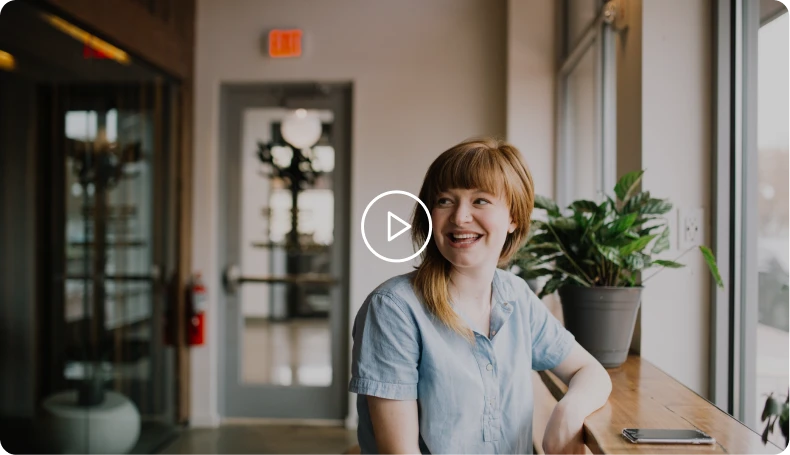
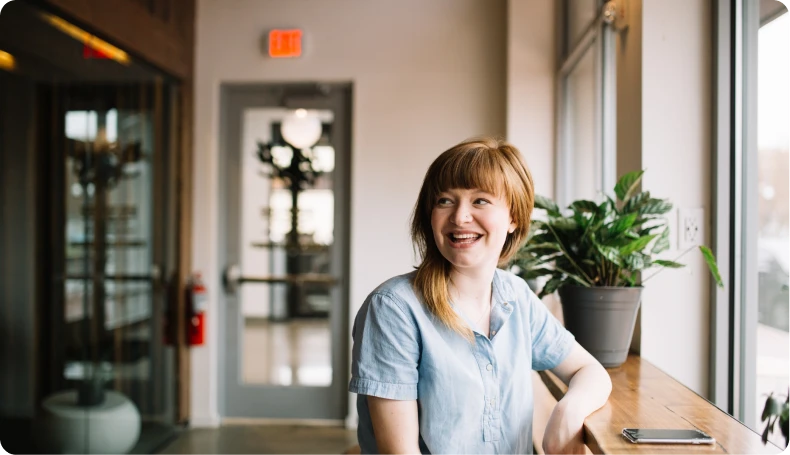
Second section is ready with mobile adaptation and with other browsers ready.

diff --git a/Assets/styles/second.css b/Assets/styles/second.css
@@ -1,0 +1,142 @@
+.second {
+  display: -webkit-box;
+  display: -ms-flexbox;
+  display: flex;
+  background-color: var(--bg-green);
+  padding: 230px 0;
+}
+
+.second__wrapper {
+  display: -webkit-box;
+  display: -ms-flexbox;
+  display: flex;
+  -webkit-box-pack: justify;
+  -ms-flex-pack: justify;
+  justify-content: space-between;
+  -webkit-box-align: center;
+  -ms-flex-align: center;
+  align-items: center;
+}
+
+.second__left {
+  margin-right: 46px;
+}
+
+.second__left-title {
+  font-weight: 700;
+  font-size: 50px;
+  line-height: 157%;
+  color: var(--bg-white);
+  max-width: 580px;
+  width: 100%;
+}
+.second__left-desc {
+  font-weight: 600;
+  font-size: 25px;
+  line-height: 157%;
+  color: var(--bg-white);
+  max-width: 580px;
+  width: 100%;
+  margin: 19px 0 80px 0;
+}
+
+.second__right {
+  display: -webkit-box;
+  display: -ms-flexbox;
+  display: flex;
+  -webkit-box-orient: vertical;
+  -webkit-box-direction: normal;
+  -ms-flex-direction: column;
+  flex-direction: column;
+  position: relative;
+}
+
+.second_img {
+  max-width: 790px;
+  width: 100%;
+  -o-object-fit: cover;
+  object-fit: cover;
+}
+
+.play {
+  position: absolute;
+  width: 100%;
+  height: 100%;
+  max-width: 72px;
+  max-height: 72px;
+  top: calc(50% - 37px);
+  left: calc(50% - 33px);
+}
+
+@media (max-width: 1200px) {
+  .second {
+    padding: 160px 0;
+  }
+
+  .btn {
+    font-size: 16px;
+  }
+
+  .second__left-title {
+    font-size: 40px;
+  }
+  .second__left-desc {
+    font-size: 20px;
+    margin: 10px 0 40px 0;
+  }
+}
+@media (max-width: 992px) {
+  .second {
+    padding: 120px 0;
+  }
+
+  .btn {
+    font-size: 14px;
+  }
+
+  .second__left-title {
+    font-size: 28px;
+  }
+  .second__left-desc {
+    font-size: 16px;
+    margin: 10px 0 40px 0;
+  }
+  .second__left {
+    margin-right: 15px;
+  }
+}
+@media (max-width: 768px) {
+  .second {
+    padding: 100px 0;
+  }
+
+  .second__wrapper {
+    display: -webkit-box;
+    display: -ms-flexbox;
+    display: flex;
+    -webkit-box-orient: vertical;
+    -webkit-box-direction: normal;
+    -ms-flex-direction: column;
+    flex-direction: column;
+    -webkit-box-pack: justify;
+    -ms-flex-pack: justify;
+    justify-content: space-between;
+    -webkit-box-align: center;
+    -ms-flex-align: center;
+    align-items: center;
+  }
+  .second__left {
+    display: -webkit-box;
+    display: -ms-flexbox;
+    display: flex;
+    -webkit-box-orient: vertical;
+    -webkit-box-direction: normal;
+    -ms-flex-direction: column;
+    flex-direction: column;
+    -webkit-box-align: center;
+    -ms-flex-align: center;
+    align-items: center;
+    text-align: center;
+    margin: 0 0 50px 0;
+  }
+}

diff --git a/index.html b/index.html
@@ -134,6 +134,41 @@
           </div>
         </div>
       </section>
+      <section class="second">
+        <div class="container">
+          <div class="second__wrapper">
+            <div class="second__left">
+              <h2 class="second__left-title">
+                Let's hear about Kayla's success story
+              </h2>
+              <p class="second__left-desc">
+                See how well Alivio works in a real customer’s life.
+              </p>
+              <button type="button" class="btn">Let’s get started</button>
+            </div>
+            <div class="second__right">
+              <svg class="play">
+                <use href="/Assets/sprite.svg#play"></use>
+              </svg>
+              <picture class="picture">
+                <source
+                  srcset="Assets/images/webp/video_2x.webp"
+                  media="(max-width: 992px)"
+                />
+                <source
+                  srcset="Assets/images/webp/video_1x.webp"
+                  media="(max-width: 576px)"
+                />
+                <img
+                  src="Assets/images/webp/video_3x.webp"
+                  alt="image"
+                  class="second_img"
+                />
+              </picture>
+            </div>
+          </div>
+        </div>
+      </section>
     </main>
   </body>
 </html>

diff --git a/Assets/styles/style.css b/Assets/styles/style.css
@@ -6,3 +6,4 @@
 @import url("hero.css");
 @import url("first.css");
 @import url("card.css");
+@import url("second.css");
